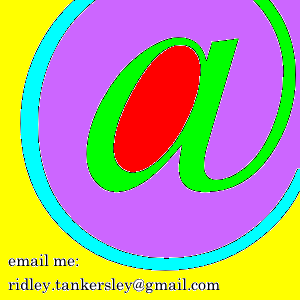
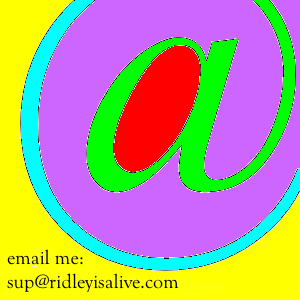
Email edit
Changed email to be domain-hosted

Changed region(s): [[0.0, 0.84, 0.75, 0.99]]

diff --git a/cv.html b/cv.html
@@ -12,7 +12,7 @@
       <div id="contact">
         <p>fan mail: 711 e boldt way, spc 1311 ~ appleton, wi 54911</p>
         <p>complaints: 711 e boldt way, spc 1311 ~ appleton, wi 54911</p>
-        <p>mail me: <a target="_blank" href="mailto:ridley.tankersley@gmail.com">ridley.tankersley@gmail.com</a></p>
+        <p>mail me: <a target="_blank" href="mailto:sup@ridleyisalive.com">ridley.tankersley@gmail.com</a></p>
       </div>
       <div class="nav">
         <a class="nav" style="background-color: #ffb2b2" href="index.html">Home</a>

diff --git a/contact.html b/contact.html
@@ -35,7 +35,7 @@ a#nav:hover {
 </style>
 </head>
 <body style="margin:0">
-<a id="contact" target="_blank" href="mailto:ridley.tankersley@gmail.com"><img src="images/email.png"></a>
+<a id="contact" target="_blank" href="mailto:sup@ridleyisalive.com"><img src="images/email.png"></a>
 <div class="nav">
   <a id="nav" href="index.html">Home</a>
   <a id="nav" href="projects.html">Projects</a>
